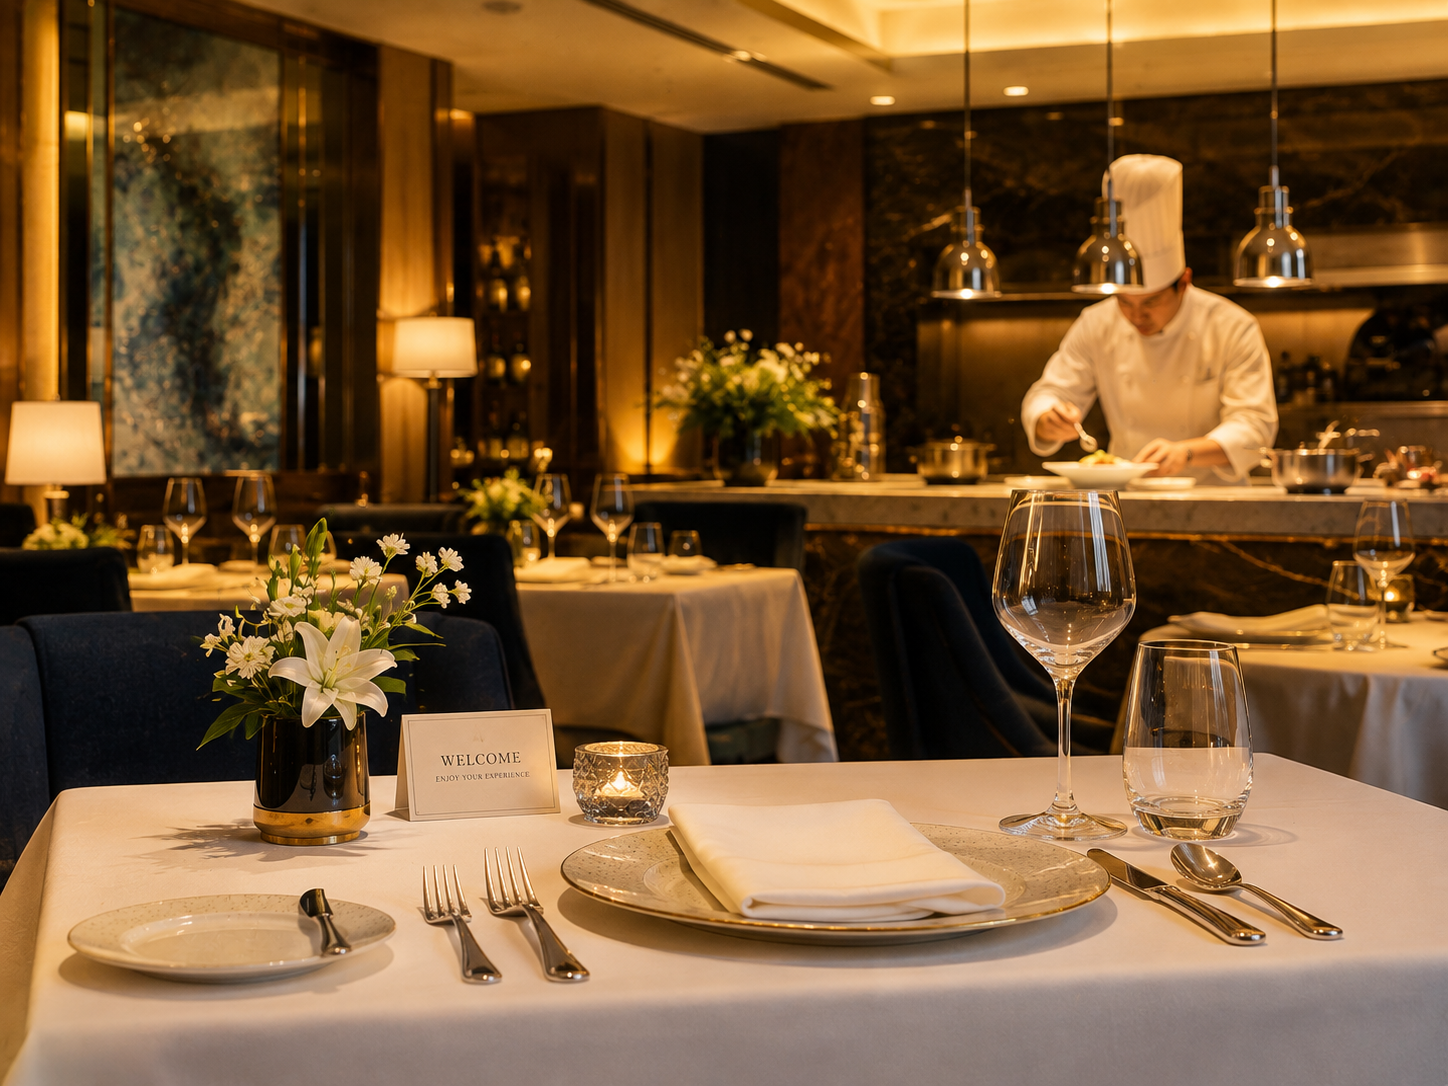
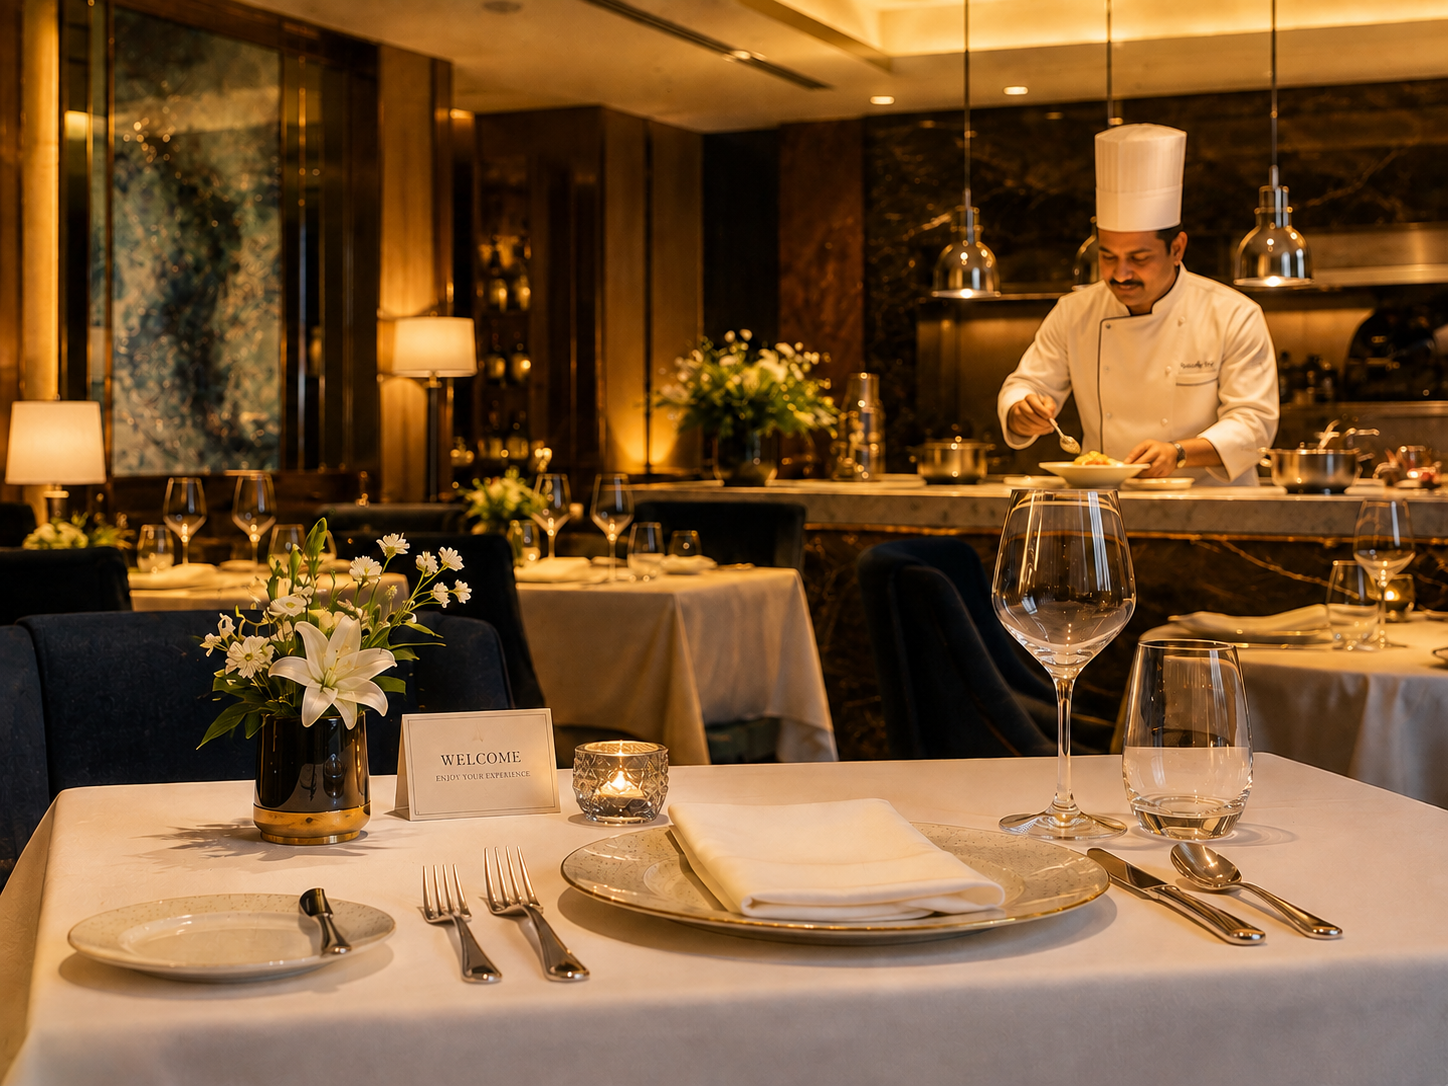
Add mobile drill-down nav for Industries and Solutions

diff --git a/assets/css/mobile.css b/assets/css/mobile.css
@@ -147,6 +147,153 @@
     align-items: center;
   }
 
+  /* ── Mobile drill-down (Industries / Solutions) ── */
+  .nav--center.is-open {
+    overflow-x: hidden;
+  }
+
+  .nav--center.is-open .nav__list,
+  .nav--center.is-open .header__cta-mobile {
+    transition: transform 0.35s cubic-bezier(0.22, 1, 0.36, 1), opacity 0.3s ease;
+    will-change: transform;
+  }
+
+  .nav--center.is-open.is-drill-view .nav__list,
+  .nav--center.is-open.is-drill-view .header__cta-mobile {
+    transform: translateX(-28%);
+    opacity: 0;
+    pointer-events: none;
+  }
+
+  .nav__link--dropdown {
+    width: 100%;
+    justify-content: space-between;
+  }
+
+  .nav--center.is-open .nav__item--has-dropdown {
+    position: static;
+  }
+
+  .nav__link--dropdown i {
+    display: inline-block;
+    font-size: 0.7em;
+    transform: rotate(-90deg);
+    opacity: 0.55;
+  }
+
+  .nav__item--has-dropdown.is-drill-open .nav__link--dropdown i {
+    transform: rotate(-90deg);
+  }
+
+  .nav--center.is-open .nav__dropdown {
+    display: flex !important;
+    flex-direction: column;
+    position: absolute;
+    top: 0;
+    right: 0;
+    bottom: 0;
+    left: 0;
+    width: 100%;
+    min-height: 100%;
+    max-height: none;
+    margin: 0;
+    padding: calc(var(--header-height) + 8px) 28px 40px;
+    border-radius: 0;
+    box-shadow: none;
+    background: var(--color-bg) !important;
+    overflow-y: auto;
+    overscroll-behavior: contain;
+    -webkit-overflow-scrolling: touch;
+    transform: translateX(100%);
+    opacity: 1;
+    visibility: visible;
+    pointer-events: none;
+    z-index: 2;
+    transition: transform 0.35s cubic-bezier(0.22, 1, 0.36, 1);
+    will-change: transform;
+  }
+
+  .nav--center.is-open .nav__item--has-dropdown.is-drill-open .nav__dropdown {
+    transform: translateX(0);
+    pointer-events: auto;
+  }
+
+  .nav__drill-head {
+    display: flex;
+    flex-direction: column;
+    align-items: flex-start;
+    gap: 18px;
+    margin-bottom: 12px;
+    padding-bottom: 16px;
+    border-bottom: 1px solid var(--color-border);
+  }
+
+  .nav__drill-back {
+    display: inline-flex;
+    align-items: center;
+    gap: 10px;
+    padding: 0;
+    border: 0;
+    background: none;
+    color: var(--color-dark);
+    font-family: inherit;
+    font-size: 0.85rem;
+    font-weight: 600;
+    letter-spacing: 0.06em;
+    text-transform: uppercase;
+    cursor: pointer;
+    min-height: 44px;
+  }
+
+  .nav__drill-back i {
+    font-size: 0.95rem;
+  }
+
+  .nav__drill-title {
+    font-family: var(--font-heading);
+    font-size: 1.65rem;
+    font-weight: 500;
+    color: var(--color-dark);
+    text-decoration: none;
+    line-height: 1.2;
+  }
+
+  .nav--center.is-open .nav__dropdown ul {
+    list-style: none;
+    margin: 0;
+    padding: 0;
+    width: 100%;
+  }
+
+  .nav--center.is-open .nav__dropdown a[role="menuitem"] {
+    display: flex;
+    align-items: center;
+    min-height: 48px;
+    padding: 12px 0;
+    font-size: 0.95rem;
+    font-weight: 500;
+    letter-spacing: 0.04em;
+    text-transform: none;
+    color: var(--color-dark) !important;
+    border-left: 0;
+    border-bottom: 1px solid rgba(21, 21, 21, 0.08);
+    background: transparent;
+  }
+
+  .nav--center.is-open .nav__dropdown a[role="menuitem"]:hover,
+  .nav--center.is-open .nav__dropdown a[role="menuitem"]:active {
+    color: var(--color-green) !important;
+    background: transparent;
+  }
+
+  @media (prefers-reduced-motion: reduce) {
+    .nav--center.is-open .nav__list,
+    .nav--center.is-open .header__cta-mobile,
+    .nav--center.is-open .nav__dropdown {
+      transition: none;
+    }
+  }
+
   /* ── Hero (home) ── */
   .hero {
     min-height: 72svh;

diff --git a/assets/js/main.js b/assets/js/main.js
@@ -232,6 +232,45 @@
     nav?.classList.toggle('is-open', isOpen);
     document.body.classList.toggle('is-nav-open', isOpen);
     document.body.style.overflow = isOpen ? 'hidden' : '';
+    if (!isOpen) resetDrillNav();
+  }
+
+  function resetDrillNav() {
+    nav?.classList.remove('is-drill-view');
+    document.querySelectorAll('.nav__item--has-dropdown.is-drill-open').forEach((el) => {
+      el.classList.remove('is-drill-open');
+    });
+  }
+
+  function ensureDrillHead(item) {
+    const dropdown = item.querySelector('.nav__dropdown');
+    if (!dropdown || dropdown.querySelector('.nav__drill-head')) return;
+
+    const trigger = item.querySelector('.nav__link--dropdown');
+    const href = trigger?.getAttribute('href') || '#';
+    const label = dropdown.getAttribute('aria-label')
+      || (trigger?.childNodes && Array.from(trigger.childNodes)
+        .filter((n) => n.nodeType === Node.TEXT_NODE)
+        .map((n) => n.textContent.trim())
+        .join(' '))
+      || 'Menu';
+
+    const head = document.createElement('div');
+    head.className = 'nav__drill-head';
+    head.innerHTML = `
+      <button type="button" class="nav__drill-back" aria-label="Back to main menu">
+        <i class="fa-solid fa-arrow-left" aria-hidden="true"></i>
+        <span>Back</span>
+      </button>
+      <a href="${href}" class="nav__drill-title">${label}</a>
+    `;
+    dropdown.insertBefore(head, dropdown.firstChild);
+
+    head.querySelector('.nav__drill-back').addEventListener('click', (e) => {
+      e.preventDefault();
+      e.stopPropagation();
+      resetDrillNav();
+    });
   }
 
   navToggle?.addEventListener('click', () => {
@@ -246,22 +285,37 @@
     });
   });
 
+  document.querySelectorAll('.nav__dropdown a').forEach((link) => {
+    link.addEventListener('click', () => {
+      if (!window.matchMedia('(max-width: 768px)').matches) return;
+      setMobileNavOpen(false);
+      resetDrillNav();
+    });
+  });
+
   function closeAllDropdowns() {
     document.querySelectorAll('.nav__item--has-dropdown.is-open').forEach((el) => el.classList.remove('is-open'));
   }
 
-  /* Nav dropdowns — desktop accordion; mobile goes straight to page */
+  /* Nav dropdowns — desktop hover/click; mobile drill-down panel */
   document.querySelectorAll('.nav__item--has-dropdown').forEach((item) => {
     const trigger = item.querySelector('.nav__link--dropdown');
     if (!trigger) return;
+
+    ensureDrillHead(item);
 
     trigger.addEventListener('click', (e) => {
       const isMobileNav = window.matchMedia('(max-width: 768px)').matches;
 
       if (isMobileNav) {
-        // Let the link navigate instantly (industries.html / solutions.html)
+        e.preventDefault();
+        e.stopPropagation();
         closeAllDropdowns();
-        setMobileNavOpen(false);
+        document.querySelectorAll('.nav__item--has-dropdown.is-drill-open').forEach((el) => {
+          if (el !== item) el.classList.remove('is-drill-open');
+        });
+        item.classList.add('is-drill-open');
+        nav?.classList.add('is-drill-view');
         return;
       }
 
@@ -281,7 +335,16 @@
   });
 
   document.addEventListener('keydown', (e) => {
-    if (e.key === 'Escape') closeAllDropdowns();
+    if (e.key !== 'Escape') return;
+    if (nav?.classList.contains('is-drill-view')) {
+      resetDrillNav();
+      return;
+    }
+    closeAllDropdowns();
+  });
+
+  window.matchMedia('(max-width: 768px)').addEventListener('change', (e) => {
+    if (!e.matches) resetDrillNav();
   });
 
   /* Dropdown scroll — keep wheel inside menu, not the page (Lenis fix) */

diff --git a/assets/css/components.css b/assets/css/components.css
@@ -271,6 +271,11 @@
   border-left-color: var(--color-gold);
 }
 
+/* Injected by JS for mobile drill-down — hidden on desktop */
+.nav__drill-head {
+  display: none;
+}
+
 .nav--center { display: flex; align-items: center; }
 
 .nav__list {
@@ -854,15 +859,6 @@ body.is-nav-open .whatsapp-float {
   .nav__item--has-dropdown { width: 100%; }
 
   .nav__item--has-dropdown::before { display: none; }
-
-  /* Phone: no accordion dropdown — Industries/Solutions open the page directly */
-  .nav__dropdown {
-    display: none !important;
-  }
-
-  .nav__link--dropdown i {
-    display: none;
-  }
 
   .nav__link { font-size: 0.95rem; color: var(--color-dark) !important; opacity: 1 !important; }
 
